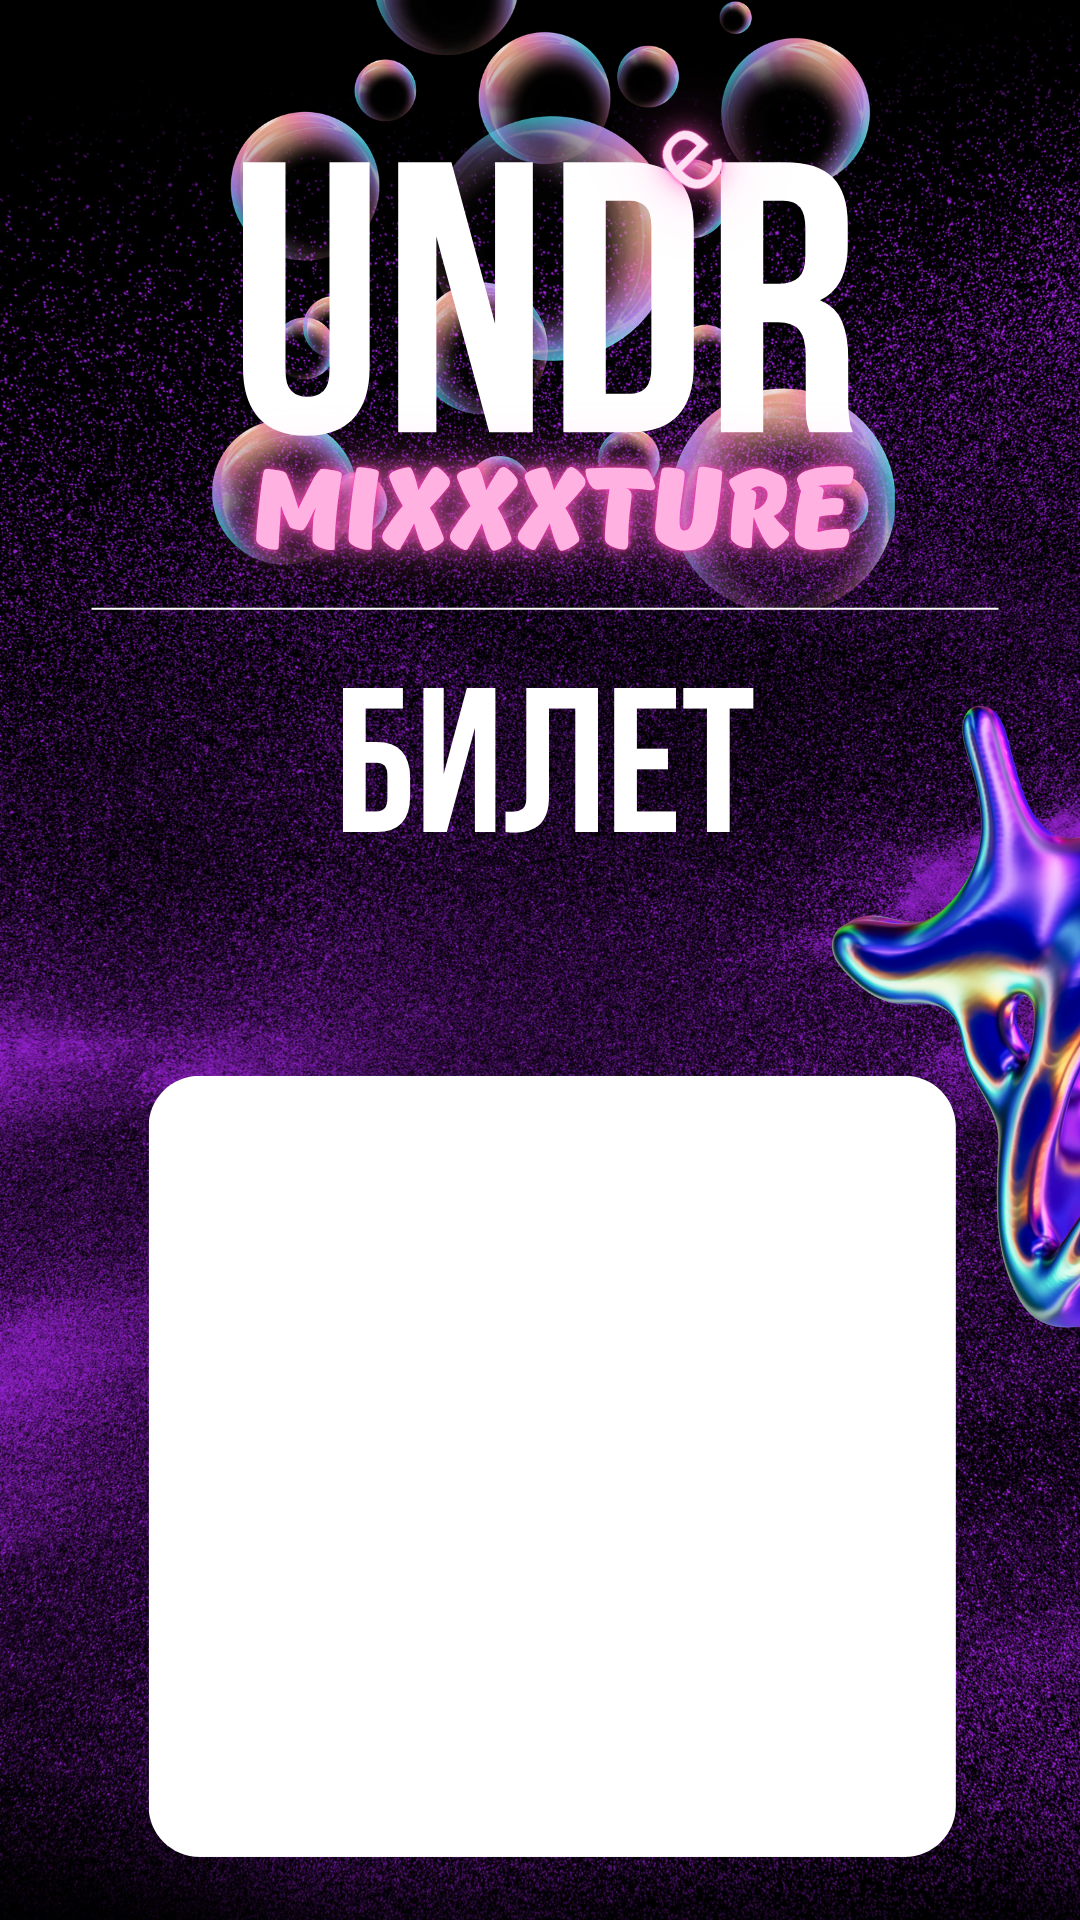
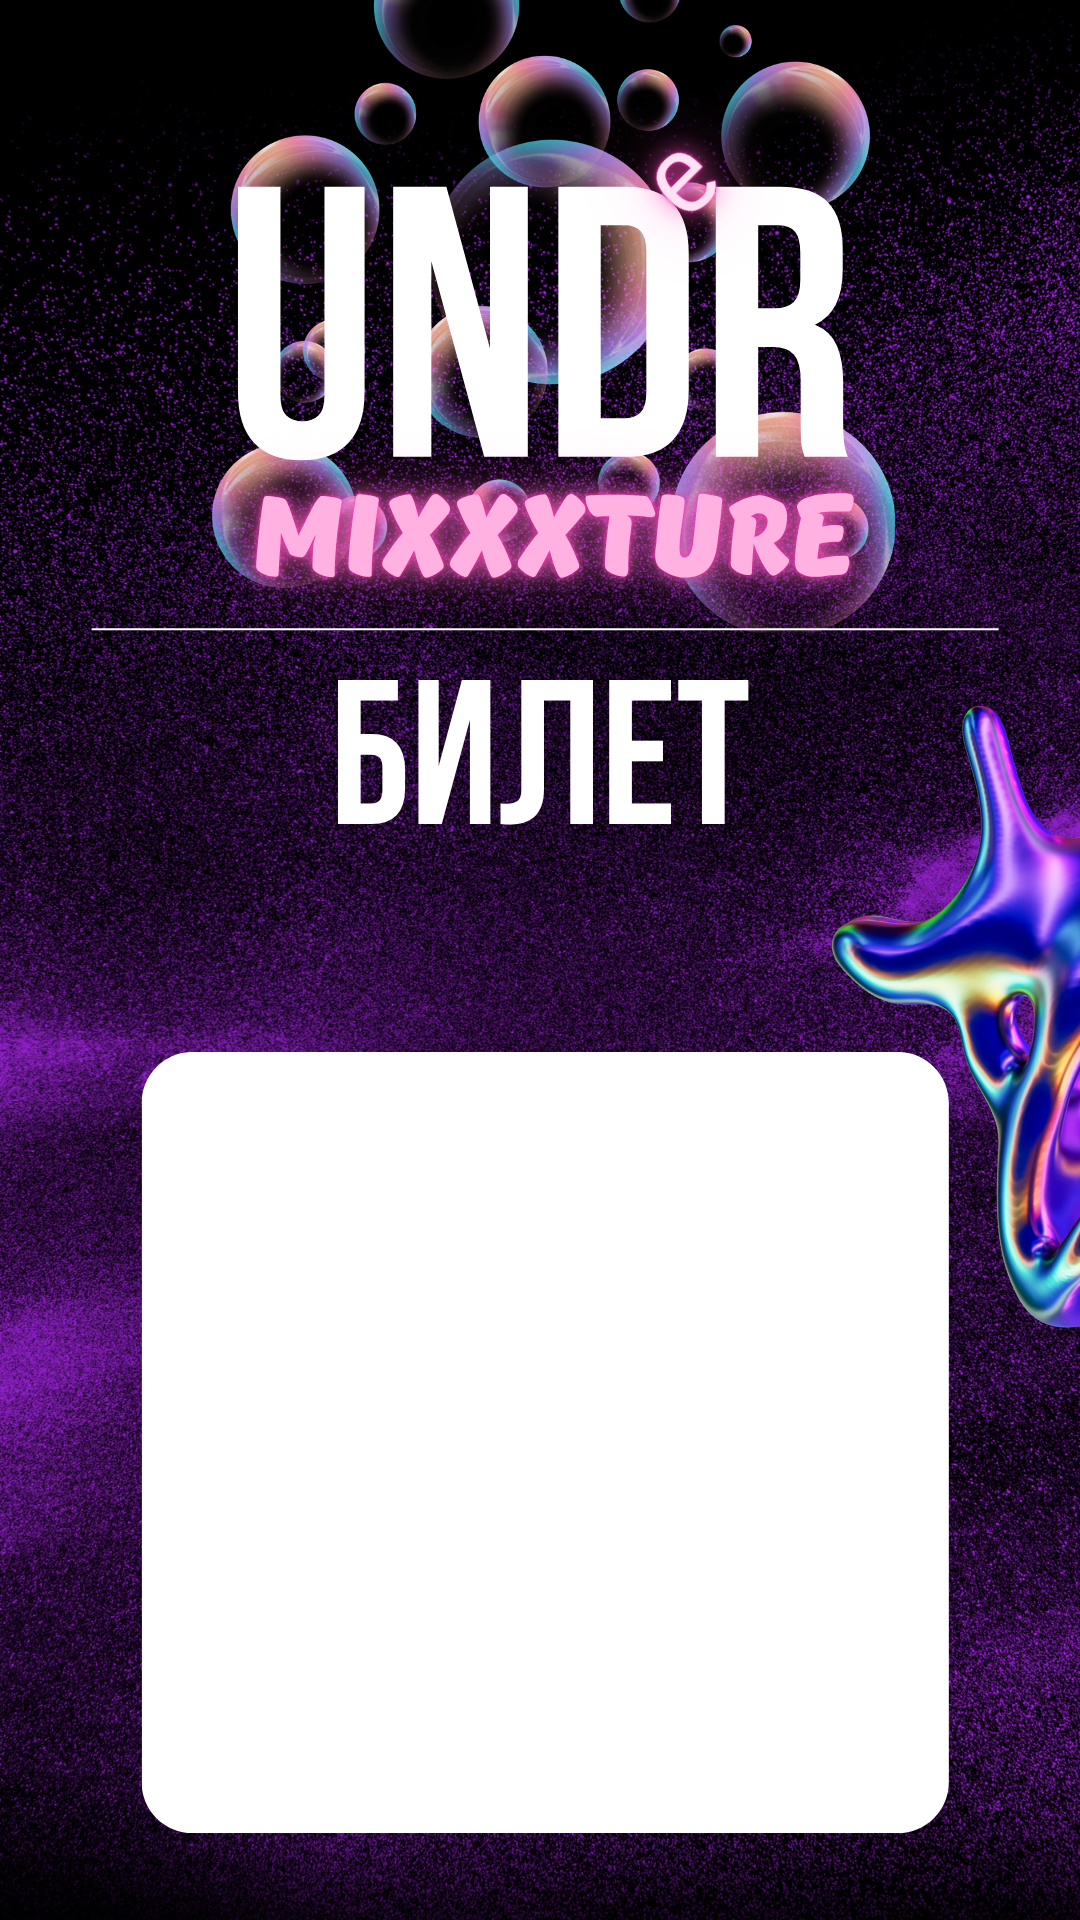
changed background

Changed region(s): [[0.1833, 0.0, 0.825, 0.4375], [0.1222, 0.5312, 0.8861, 0.9688]]

diff --git a/app.py b/app.py
@@ -388,7 +388,7 @@ def generate_ticket_image(telegram_tag: str, qr_img: Image.Image):
     
     text_width = draw.textlength(tag_text, font=font)
     draw.text(
-        ((1080 - text_width) // 2, 1000),
+        ((1080 - text_width) // 2, 950),
         tag_text,
         fill="white",
         font=font,
@@ -396,7 +396,7 @@ def generate_ticket_image(telegram_tag: str, qr_img: Image.Image):
         stroke_fill="black"
     )
 
-    qr_size = 800
+    qr_size = 760
     qr_img = qr_img.resize((qr_size, qr_size))
     qr_position = ((1080 - qr_size) // 2, 1100)
     
